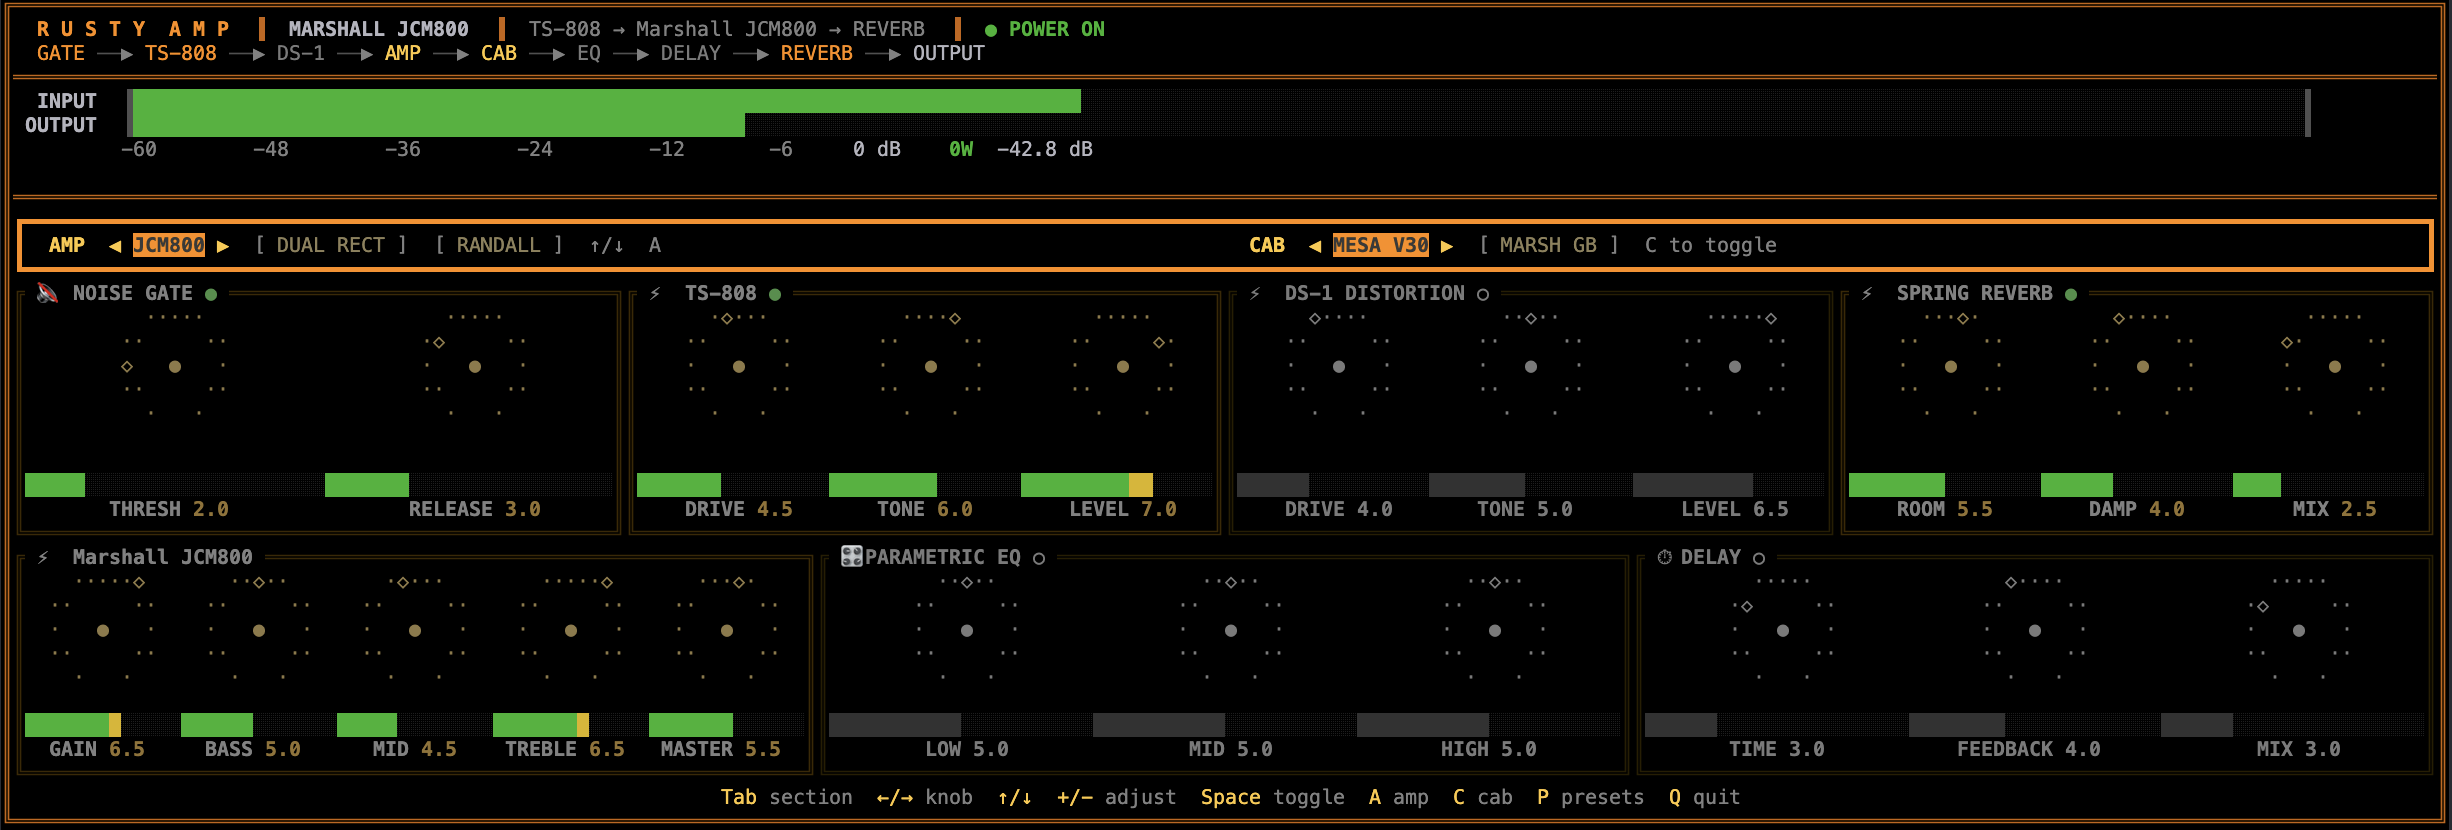
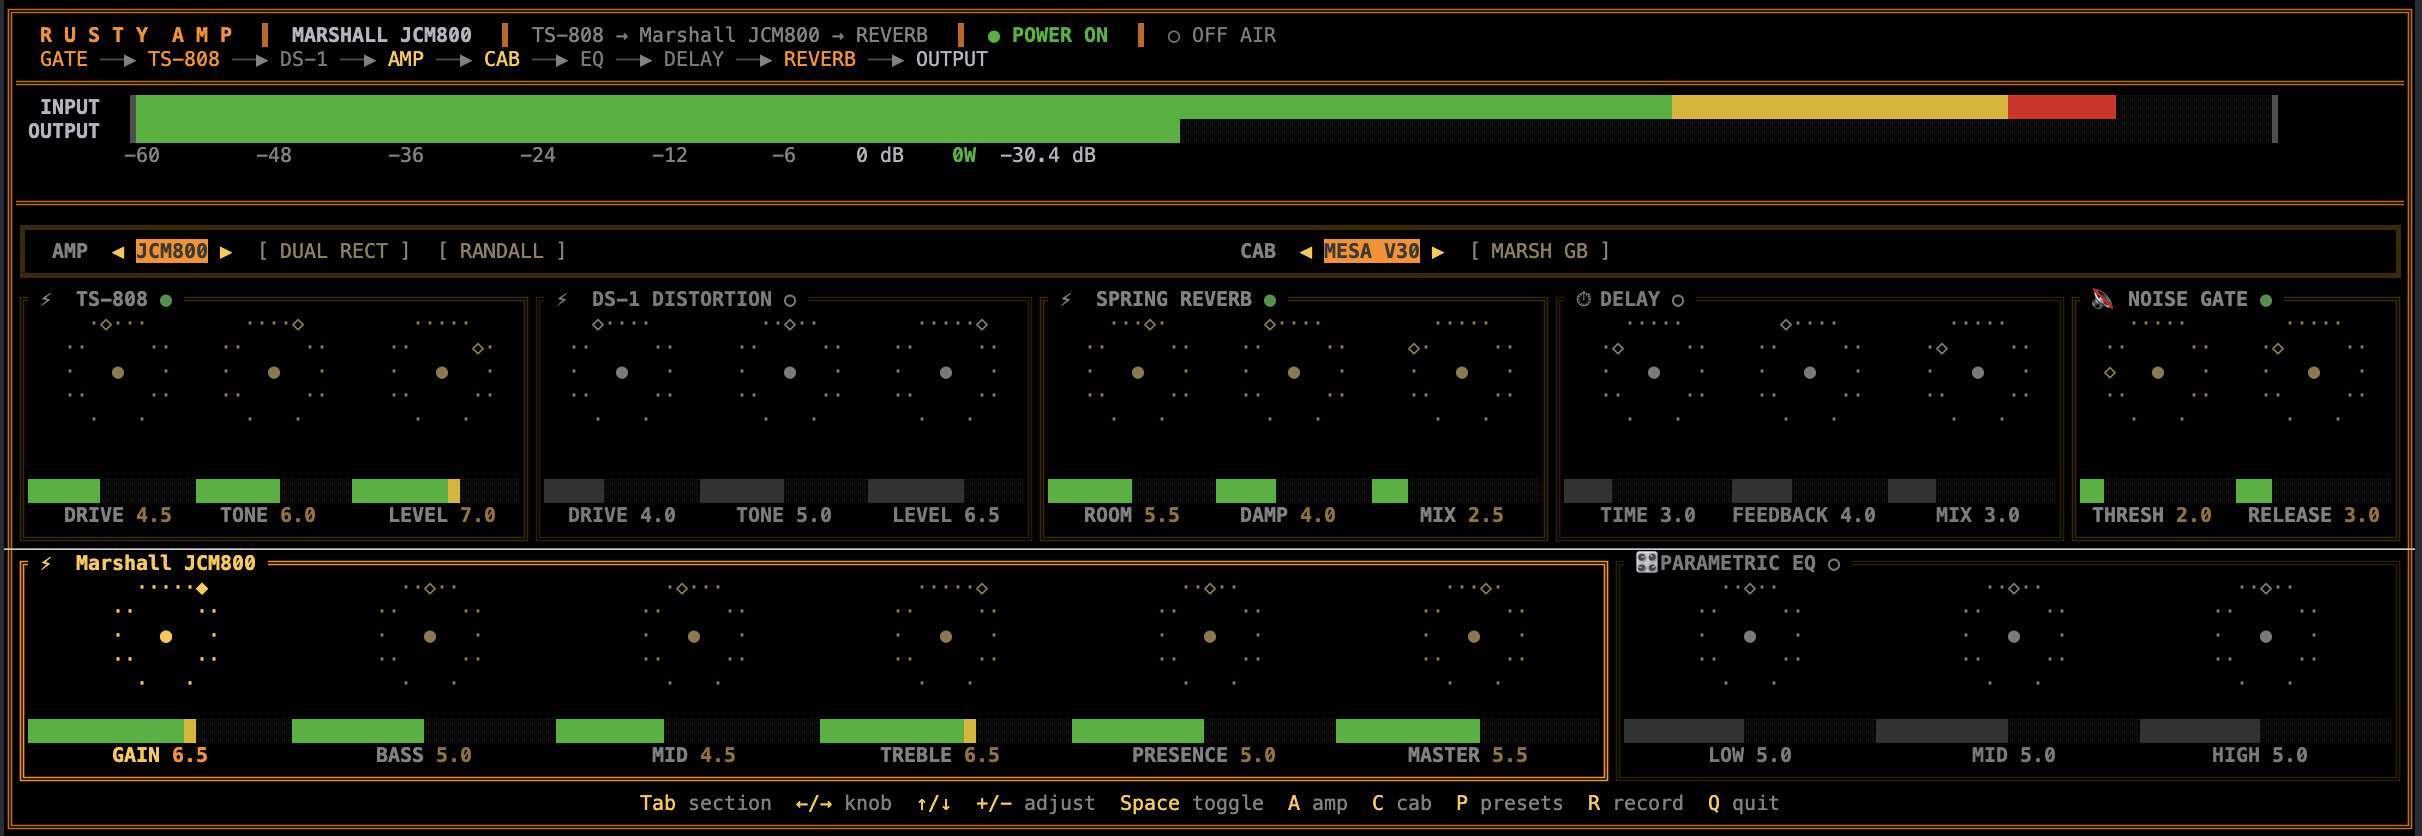
fix: reordered sections

diff --git a/src/ui/config.rs b/src/ui/config.rs
@@ -15,19 +15,11 @@ pub(super) type SectionDef = (
     usize,
     usize,
     fn(&Params) -> Option<bool>,
+    u32, // relative width weight
 );
 
 pub(super) const KNOBS: &[Knob] = &[
-    // 0–1: Noise Gate
-    Knob {
-        label: "THRESH",
-        param: |p| &p.ng_threshold,
-    },
-    Knob {
-        label: "RELEASE",
-        param: |p| &p.ng_release,
-    },
-    // 2–4: TS-808
+    // 0–2: TS-808
     Knob {
         label: "DRIVE",
         param: |p| &p.ts_drive,
@@ -40,7 +32,7 @@ pub(super) const KNOBS: &[Knob] = &[
         label: "LEVEL",
         param: |p| &p.ts_level,
     },
-    // 5–7: DS-1
+    // 3–5: DS-1
     Knob {
         label: "DRIVE",
         param: |p| &p.ds_drive,
@@ -53,7 +45,7 @@ pub(super) const KNOBS: &[Knob] = &[
         label: "LEVEL",
         param: |p| &p.ds_level,
     },
-    // 8–10: Reverb
+    // 6–8: Reverb
     Knob {
         label: "ROOM",
         param: |p| &p.rev_room,
@@ -66,20 +58,7 @@ pub(super) const KNOBS: &[Knob] = &[
         label: "MIX",
         param: |p| &p.rev_mix,
     },
-    // 11–13: Parametric EQ
-    Knob {
-        label: "LOW",
-        param: |p| &p.eq_low,
-    },
-    Knob {
-        label: "MID",
-        param: |p| &p.eq_mid,
-    },
-    Knob {
-        label: "HIGH",
-        param: |p| &p.eq_high,
-    },
-    // 14–16: Delay
+    // 9–11: Delay
     Knob {
         label: "TIME",
         param: |p| &p.delay_time,
@@ -92,7 +71,16 @@ pub(super) const KNOBS: &[Knob] = &[
         label: "MIX",
         param: |p| &p.delay_mix,
     },
-    // 17–21: Amp
+    // 12–13: Noise Gate
+    Knob {
+        label: "THRESH",
+        param: |p| &p.ng_threshold,
+    },
+    Knob {
+        label: "RELEASE",
+        param: |p| &p.ng_release,
+    },
+    // 14–19: Amp
     Knob {
         label: "GAIN",
         param: |p| &p.amp_gain,
@@ -117,59 +105,86 @@ pub(super) const KNOBS: &[Knob] = &[
         label: "MASTER",
         param: |p| &p.amp_master,
     },
+    // 20–22: Parametric EQ
+    Knob {
+        label: "LOW",
+        param: |p| &p.eq_low,
+    },
+    Knob {
+        label: "MID",
+        param: |p| &p.eq_mid,
+    },
+    Knob {
+        label: "HIGH",
+        param: |p| &p.eq_high,
+    },
 ];
 
+// Row 1: TS-808, DS-1, Reverb, Delay, Noise Gate
 pub(super) const PEDAL_SECTIONS: &[SectionDef] = &[
     (
-        |_| "🔇 NOISE GATE".into(),
-        0,
-        2,
-        |p| Some(p.ng_enabled.load(Relaxed)),
-    ),
-    (
         |_| "⚡ TS-808".into(),
-        2,
-        5,
+        0,
+        3,
         |p| Some(p.ts_enabled.load(Relaxed)),
+        3,
     ),
     (
         |_| "⚡ DS-1 DISTORTION".into(),
-        5,
-        8,
+        3,
+        6,
         |p| Some(p.ds_enabled.load(Relaxed)),
+        3,
     ),
     (
         |_| "⚡ SPRING REVERB".into(),
-        8,
-        11,
+        6,
+        9,
         |p| Some(p.rev_enabled.load(Relaxed)),
-    ),
-];
-
-pub(super) const AMP_SECTIONS: &[SectionDef] = &[
-    (|p| format!("⚡ {}", p.amp_model().name()), 17, 23, |_| None),
-    (
-        |_| "🎛 PARAMETRIC EQ".into(),
-        11,
-        14,
-        |p| Some(p.eq_enabled.load(Relaxed)),
+        3,
     ),
     (
         |_| "⏱ DELAY".into(),
-        14,
-        17,
+        9,
+        12,
         |p| Some(p.delay_enabled.load(Relaxed)),
+        3,
+    ),
+    (
+        |_| "🔇 NOISE GATE".into(),
+        12,
+        14,
+        |p| Some(p.ng_enabled.load(Relaxed)),
+        2,
     ),
 ];
 
-// Tab order: None (selectors) → NG → TS → DS → Rev → EQ → Delay → Amp
+// Row 2: Amp (wider), Parametric EQ
+pub(super) const AMP_SECTIONS: &[SectionDef] = &[
+    (
+        |p| format!("⚡ {}", p.amp_model().name()),
+        14,
+        20,
+        |_| None,
+        2,
+    ),
+    (
+        |_| "🎛 PARAMETRIC EQ".into(),
+        20,
+        23,
+        |p| Some(p.eq_enabled.load(Relaxed)),
+        1,
+    ),
+];
+
+// Tab order: None (selectors) → TS → DS → Rev → Delay → NG → Amp → EQ
 pub(super) const SECTION_STARTS: &[Option<usize>] = &[
     None,
     Some(0),
-    Some(2),
-    Some(5),
-    Some(8),
-    Some(11),
+    Some(3),
+    Some(6),
+    Some(9),
+    Some(12),
     Some(14),
-    Some(17),
+    Some(20),
 ];

diff --git a/src/ui/draw.rs b/src/ui/draw.rs
@@ -344,15 +344,18 @@ fn render_section_row(
     params: &Params,
     focus: Option<usize>,
 ) {
-    let n = sections.len() as u32;
-    let constraints: Vec<Constraint> = (0..n).map(|_| Constraint::Ratio(1, n)).collect();
+    let total_weight: u32 = sections.iter().map(|s| s.4).sum();
+    let constraints: Vec<Constraint> = sections
+        .iter()
+        .map(|s| Constraint::Ratio(s.4, total_weight))
+        .collect();
 
     let cols = Layout::default()
         .direction(Direction::Horizontal)
         .constraints(constraints)
         .split(area);
 
-    for (i, (title_fn, start, end, enabled_fn)) in sections.iter().enumerate() {
+    for (i, (title_fn, start, end, enabled_fn, _)) in sections.iter().enumerate() {
         let title = title_fn(params);
         let enabled = enabled_fn(params);
         render_section(f, cols[i], &title, params, *start, *end, enabled, focus);